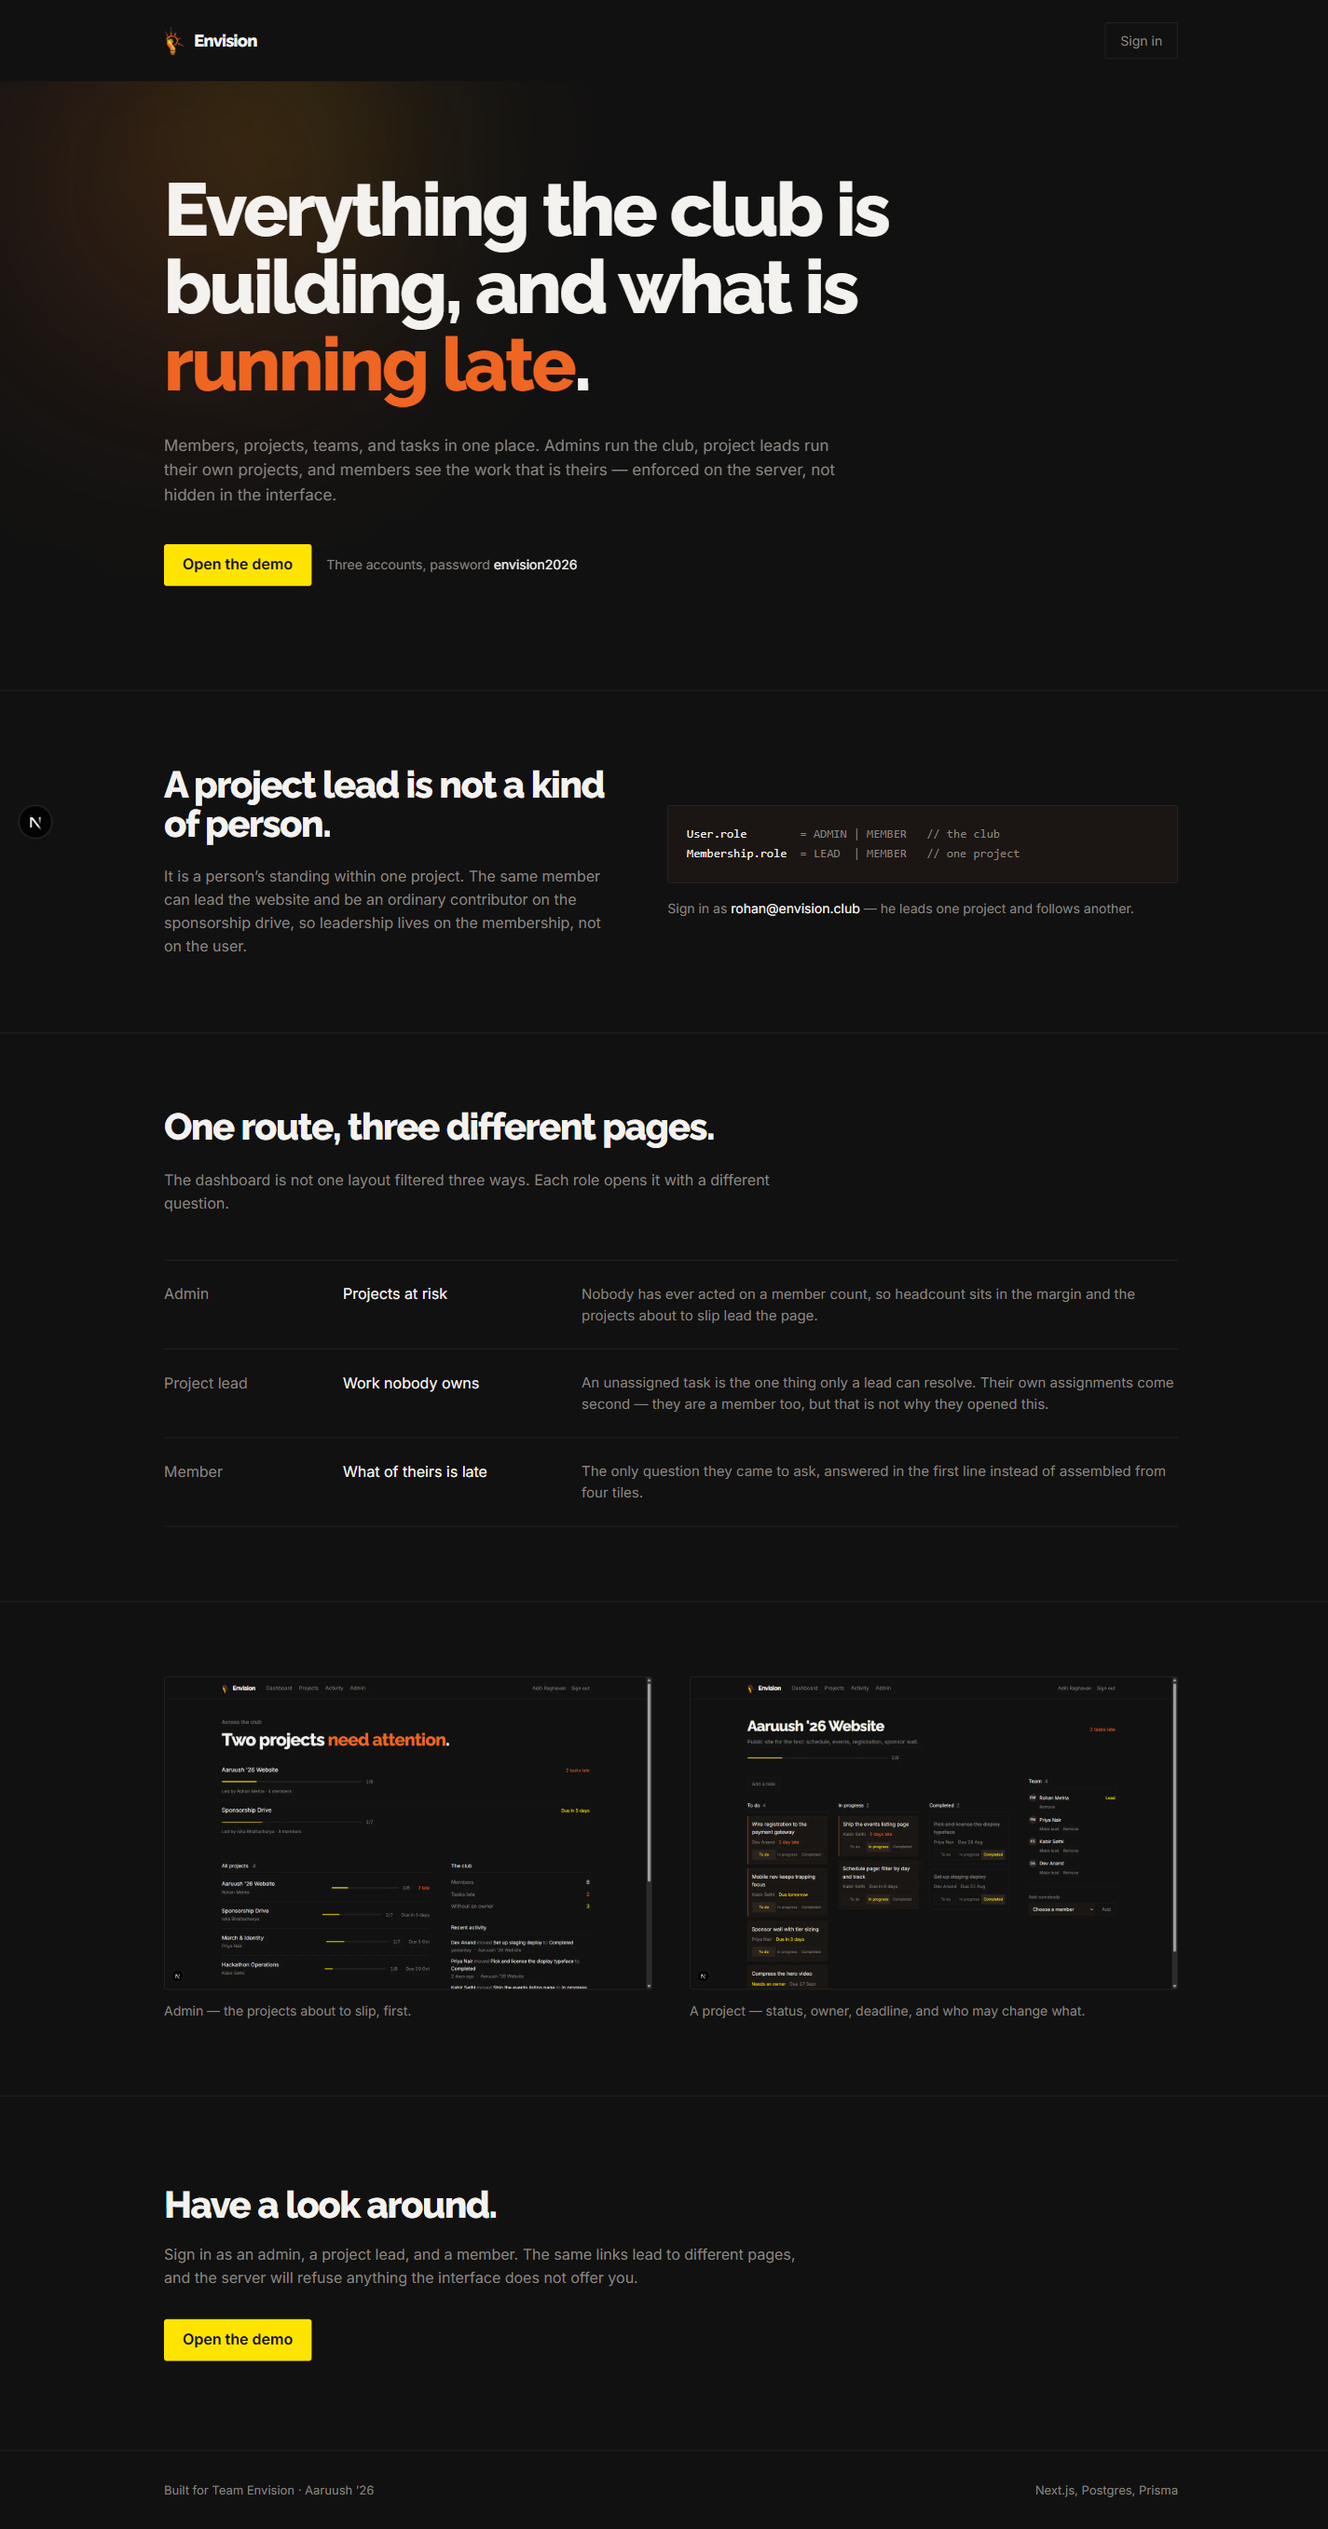
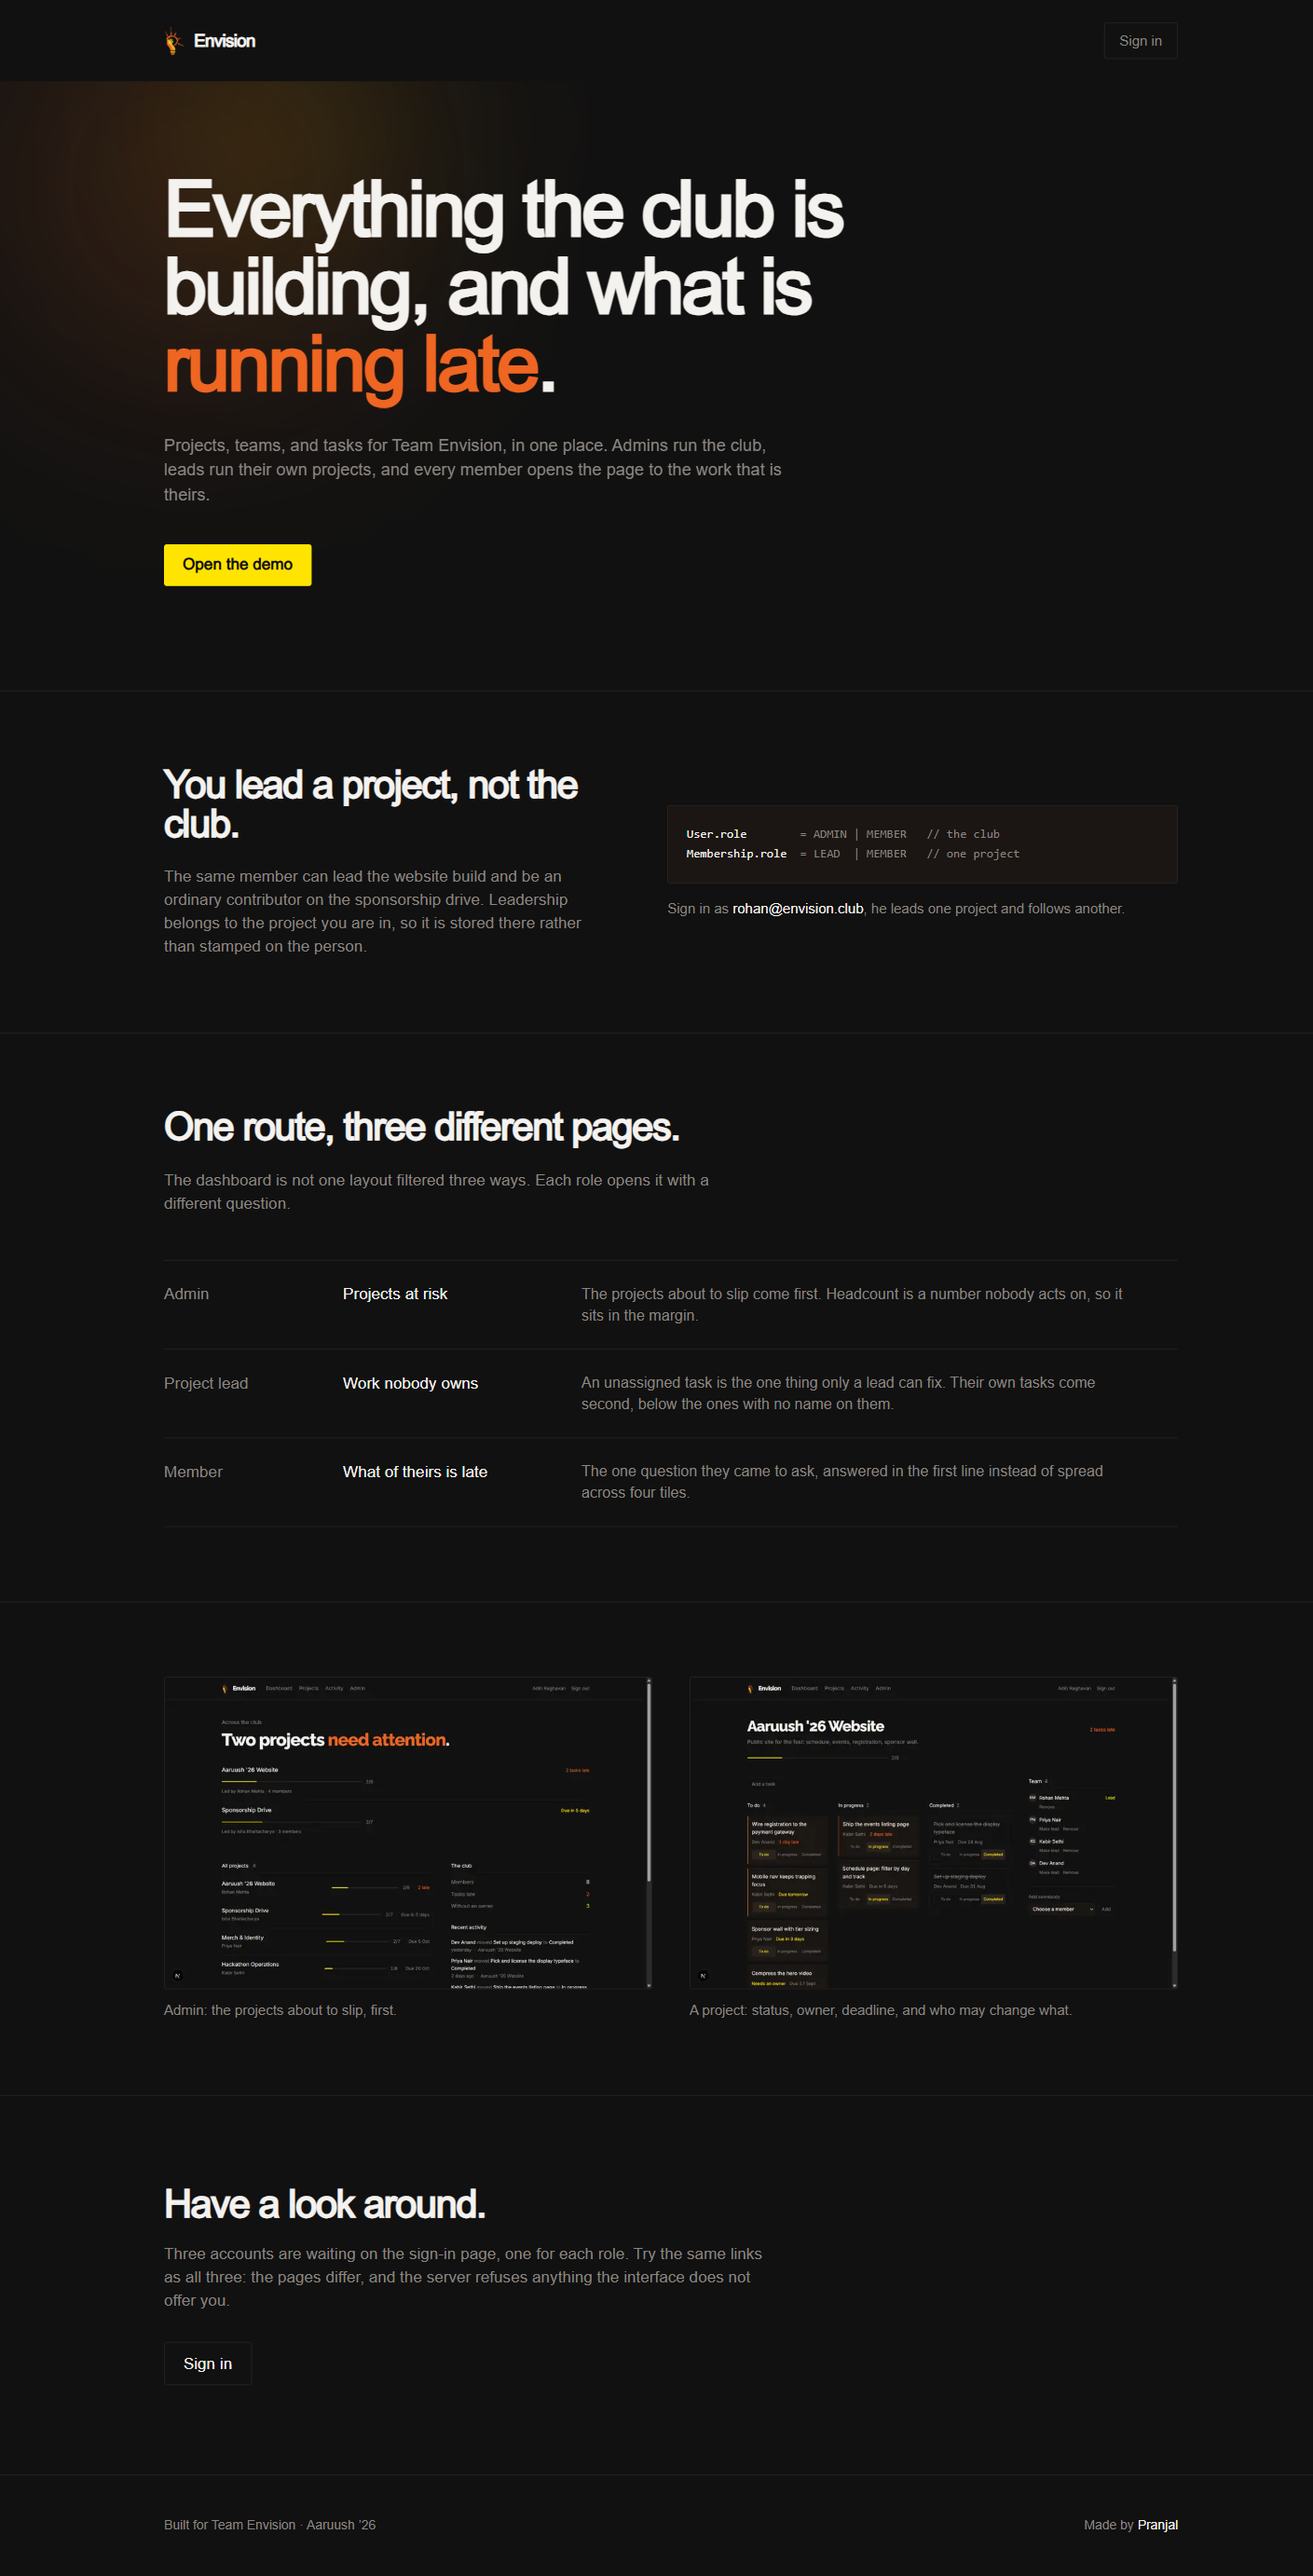
fix: the landing page is reachable with a stale session cookie
page.tsx redirected to /dashboard on session.user.id alone. For a cookie
whose account is gone the layout then found no user and bounced to
/login, so / was unreachable rather than just stale, and it looked like a
browser cache problem. login/page.tsx already verifies the account still
exists before redirecting; this is the same check.

README: dropped Known gaps, moved Features above the design argument so
the first thing after the demo table is what the thing does, filled in
the deployment URL, and added the admin dashboard and sign-in shots that
were sitting in docs/screenshots unused.

Screenshots re-taken against the current UI. The old ones predate the
nav, the tap targets and the landing copy.

diff --git a/src/app/page.tsx b/src/app/page.tsx
@@ -2,6 +2,7 @@ import Image from "next/image";
 import Link from "next/link";
 import { redirect } from "next/navigation";
 import { auth } from "@/auth";
+import { prisma } from "@/lib/db";
 
 export const metadata = {
   title: "Envision: club management",
@@ -28,9 +29,23 @@ const ROLES = [
 ];
 
 export default async function Home() {
-  // Anyone already signed in wants the product, not the pitch.
+  /*
+    Anyone already signed in wants the product, not the pitch.
+
+    The token only says who you were. Trusting it alone sent anyone holding a
+    cookie for a deleted account to /dashboard, where the layout found no user
+    and bounced them to /login, so the landing page became unreachable rather
+    than merely stale. Same check login/page.tsx already makes, for the same
+    reason.
+  */
   const session = await auth();
-  if (session?.user?.id) redirect("/dashboard");
+  if (session?.user?.id) {
+    const stillExists = await prisma.user.findUnique({
+      where: { id: session.user.id },
+      select: { id: true },
+    });
+    if (stillExists) redirect("/dashboard");
+  }
 
   return (
     <div className="min-h-dvh">

diff --git a/README.md b/README.md
@@ -1,4 +1,4 @@
-# Envision — club management
+# Envision: club management
 
 A role-based system for running a college club: members, projects, teams, and tasks. Admins run
 the club, project leads run their own projects, and members see the work that is theirs.
@@ -9,7 +9,7 @@ Built for the Team Envision (Aaruush '26) recruitment task, web development trac
 
 ## Demo
 
-Live at **[add your deployment URL]**. The password is the same for all three accounts:
+Live at **https://envision-psb.vercel.app**. The password is the same for all three accounts:
 
 | Role | Email | Password |
 |---|---|---|
@@ -17,19 +17,49 @@ Live at **[add your deployment URL]**. The password is the same for all three ac
 | Project lead | `rohan@envision.club` | `envision2026` |
 | Member | `arjun@envision.club` | `envision2026` |
 
+![The sign-in page](docs/screenshots/login.png)
+
 `/` is a public landing page that states the design argument and hands over the demo accounts;
 signed-in visitors are redirected straight to their dashboard.
 
-Sign in as each in turn — the same routes render differently, because the three roles are asking
+Sign in as each in turn. The same routes render differently, because the three roles are asking
 different questions.
 
 Rohan is the one worth looking at: he **leads** the website project and is a plain **member** of
 the sponsorship drive. That is the design decision this project is built around.
 
+## Features
+
+- Email and password sign-in, bcrypt at cost 12, constant-time rejection so response latency does
+  not enumerate who is in the club
+- Role-based access enforced server-side on every mutation
+- Projects with deadlines, teams, and per-project leads; leads edit their own, admins delete
+- Tasks with an owner, detail, deadline, priority, and three statuses, editable and deletable by the lead
+- Projects archive and restore, so a finished fest leaves the active list without destroying its record
+- Members can be removed from the club; their work is unassigned rather than deleted, and their history survives
+- Destructive actions confirm in place before they run
+- Three structurally different dashboards, not one layout with different data in it
+- An audit log written in the same transaction as the change it records, so a gap is impossible
+- A public landing page at `/`, so a reviewer sees the argument before the login form
+- Responsive from 360px up
+- Seed script producing a populated, believable club in one command
+
+### The dashboards differ
+
+| Role | Leads with | Because |
+|---|---|---|
+| Member | Their late work, in words: "Two tasks are late." | It is the only question they came to ask |
+| Lead | Overdue across the projects they run, then tasks with no owner | Unassigned work is the thing only a lead can fix |
+| Admin | Projects at risk | Headcount has never caused anyone to act |
+
+![Dashboard as an admin](docs/screenshots/dashboard-admin.png)
+
+![Dashboard as a project lead](docs/screenshots/dashboard-lead.png)
+
 ## Project Lead is not a global role
 
 The task statement names three roles, which reads like one `role` column on the user. It should
-not be one column, because a project lead is not a kind of person — it is a person's standing
+not be one column, because a project lead is not a kind of person. It is a person's standing
 *within one project*. The same member can lead the website revamp and be an ordinary contributor
 on the sponsorship drive.
 
@@ -56,8 +86,8 @@ A `role` column on `User` cannot express any of it.
 
 Two pieces, deliberately separated.
 
-**`src/lib/authz.ts`** decides. It is pure — no database, no session, no imports from the rest of
-the app — so the entire permission matrix is testable without mocks.
+**`src/lib/authz.ts`** decides. It is pure (no database, no session, no imports from the rest of
+the app) so the entire permission matrix is testable without mocks.
 
 **`src/lib/guard.ts`** resolves. It reads the actor and their membership from the database and
 hands them to `can()`.
@@ -78,7 +108,7 @@ check, and a grader will try a direct request.
 
 ### The session token is a cache, not the truth
 
-Auth.js's Credentials provider **requires** the JWT session strategy — it throws
+Auth.js's Credentials provider **requires** the JWT session strategy. It throws
 `UnsupportedStrategy` with database sessions, because credentials users are never written to an
 adapter and so cannot be looked up by session token.
 
@@ -107,32 +137,6 @@ You do not have permission to do that.
 
 and the row stays `TODO` in Postgres.
 
-## Features
-
-- Email and password sign-in, bcrypt at cost 12, constant-time rejection so response latency does
-  not enumerate who is in the club
-- Role-based access enforced server-side on every mutation
-- Projects with deadlines, teams, and per-project leads; leads edit their own, admins delete
-- Tasks with an owner, detail, deadline, priority, and three statuses, editable and deletable by the lead
-- Projects archive and restore, so a finished fest leaves the active list without destroying its record
-- Members can be removed from the club; their work is unassigned rather than deleted, and their history survives
-- Destructive actions confirm in place before they run
-- Three structurally different dashboards, not one layout with different data in it
-- An audit log written in the same transaction as the change it records, so a gap is impossible
-- A public landing page at `/`, so a reviewer sees the argument before the login form
-- Responsive from 360px up
-- Seed script producing a populated, believable club in one command
-
-### The dashboards differ
-
-| Role | Leads with | Because |
-|---|---|---|
-| Member | Their late work, in words: "Two tasks are late." | It is the only question they came to ask |
-| Lead | Overdue across the projects they run, then tasks with no owner | Unassigned work is the thing only a lead can fix |
-| Admin | Projects at risk | Headcount has never caused anyone to act |
-
-![Dashboard as a project lead](docs/screenshots/dashboard-lead.png)
-
 ## Design
 
 The visual system has one idea: **light is attention.** Team Envision's mark is a lightbulb and
@@ -140,7 +144,7 @@ this product's job is showing what needs attention, so illumination carries stat
 decorating it. Overdue work burns, active work glows, finished work goes dark and recedes. Nothing
 is coloured because it looked nice.
 
-The palette is not an approximation of their brand — it is taken from it. `--ink` is the
+The palette is taken from their brand rather than approximating it. `--ink` is the
 `--default-bg-color` on aaruush.org. The two accents are the bulb's own colours, cross-checked two
 ways: sampled from the logo's pixels (`#F06C24` dominant, `#FCE406` filament) and read from their
 stylesheet (`#EF6522`, `#FFE400`). Those two already mean "lit" in their identity, which is exactly
@@ -150,18 +154,18 @@ what they mean here.
 |---|---|---|
 | `--ink` | `#111111` | Aaruush's own page ground |
 | `--ink-lit` | `#1B1613` | A surface catching light |
-| `--glow` | `#FFE400` | The filament — in progress, due soon, progress |
-| `--ember` | `#EF6522` | The bulb — overdue, high priority |
+| `--glow` | `#FFE400` | The filament: in progress, due soon, progress |
+| `--ember` | `#EF6522` | The bulb: overdue, high priority |
 | `--paper` | `#F4F2EF` | Text |
 | `--ash` | `#8B8580` | Completed, metadata |
 
 Because ember means *late*, it is never used for anything that is not late. A project can be at
-risk for slow progress against a near deadline without anything being overdue — that reads yellow,
+risk for slow progress against a near deadline without anything being overdue, and that reads yellow,
 not orange. Colouring it orange would make the orange that matters worth ignoring.
 
 Every pair clears WCAG AA for normal text on the ink ground: paper 16.9:1, glow 14.7:1, ember
 5.9:1, ash 5.2:1. Yellow and orange also differ sharply in lightness rather than hue alone, so the
-two states stay distinguishable without relying on colour vision — and the text always names the
+two states stay distinguishable without relying on colour vision, and the text always names the
 state regardless.
 
 Type is Aaruush's own stack. Their site loads Xirod for display with Raleway Bold and Inter beneath
@@ -175,7 +179,7 @@ completed work recedes.
 | File | Source |
 |---|---|
 | `public/brand/envision-mark.png` | The '26 bulb, extracted from the recruitment brief PDF and composited with its soft mask |
-| `public/brand/envision-logo.png` | The full lockup, from `aaruush.org/a25/envision logo.png` — white type, so it reads on the dark ground |
+| `public/brand/envision-logo.png` | The full lockup, from `aaruush.org/a25/envision logo.png`. White type, so it reads on the dark ground |
 | `public/brand/envision-26-logo.png` | The '26 lockup from the brief. Dark type, kept for reference; unused in the dark UI |
 
 These are Team Envision's marks, used here for a submission addressed to them.
@@ -196,7 +200,7 @@ These are Team Envision's marks, used here for a submission addressed to them.
 | Tests | Vitest |
 
 Two notes for anyone running this on an older mental model: Next 16 renamed `middleware.ts` to
-`proxy.ts` (Node runtime only, no edge), and Prisma 7 dropped the Rust query engine — the
+`proxy.ts` (Node runtime only, no edge), and Prisma 7 dropped the Rust query engine, so the
 connection URL lives in `prisma.config.ts` and the client needs a driver adapter.
 
 ## API
@@ -291,7 +295,7 @@ AuditLog    id, actorId, action, entityType, entityId, projectId?, meta, created
 
 Choices that are not obvious:
 
-- `Task.assigneeId` is nullable. Unassigned is a real state — a lead builds the backlog before
+- `Task.assigneeId` is nullable. Unassigned is a real state: a lead builds the backlog before
   deciding who takes what, and that queue is what the lead dashboard surfaces.
 - Removing somebody from a project unassigns their tasks rather than deleting them. Somebody still
   has to do the work.
@@ -302,7 +306,7 @@ Choices that are not obvious:
 - `completedAt` is set on the transition into `COMPLETED` and cleared on the way out, so progress
   never needs the audit log to compute.
 - `AuditLog.actorId` is **nullable, `onDelete: SetNull`**. With a cascade there, removing somebody
-  from the club would silently delete everything they ever did — destroying the record the table
+  from the club would silently delete everything they ever did, destroying the record the table
   exists to keep. Their entries survive and read as "A former member".
 - `Project.archived` keeps a finished project queryable without deleting it.
 
@@ -317,15 +321,3 @@ The board becomes stacked status sections below 768px and the status control spa
 control keeps a visible focus ring, and `prefers-reduced-motion` disables the one page-load
 animation.
 
-## Known gaps
-
-Stated rather than quietly omitted:
-
-- **No rate limiting on the login route.** The right fix is a fixed-window counter keyed on IP plus
-  email, in Redis or Postgres. It did not fit the build window.
-- **Tests cover authorization only.** That is deliberate at this scope — authorization is the only
-  logic here whose bug is a vulnerability rather than an inconvenience. The next tests to write are
-  the task-assignment and lead-assignment actions.
-- **No drag-and-drop on the board.** A segmented control is the same capability for a fraction of
-  the code, and it works with a keyboard and on a phone.
-- **No deadline notifications.** Overdue is computed at read time and shown as state instead.
